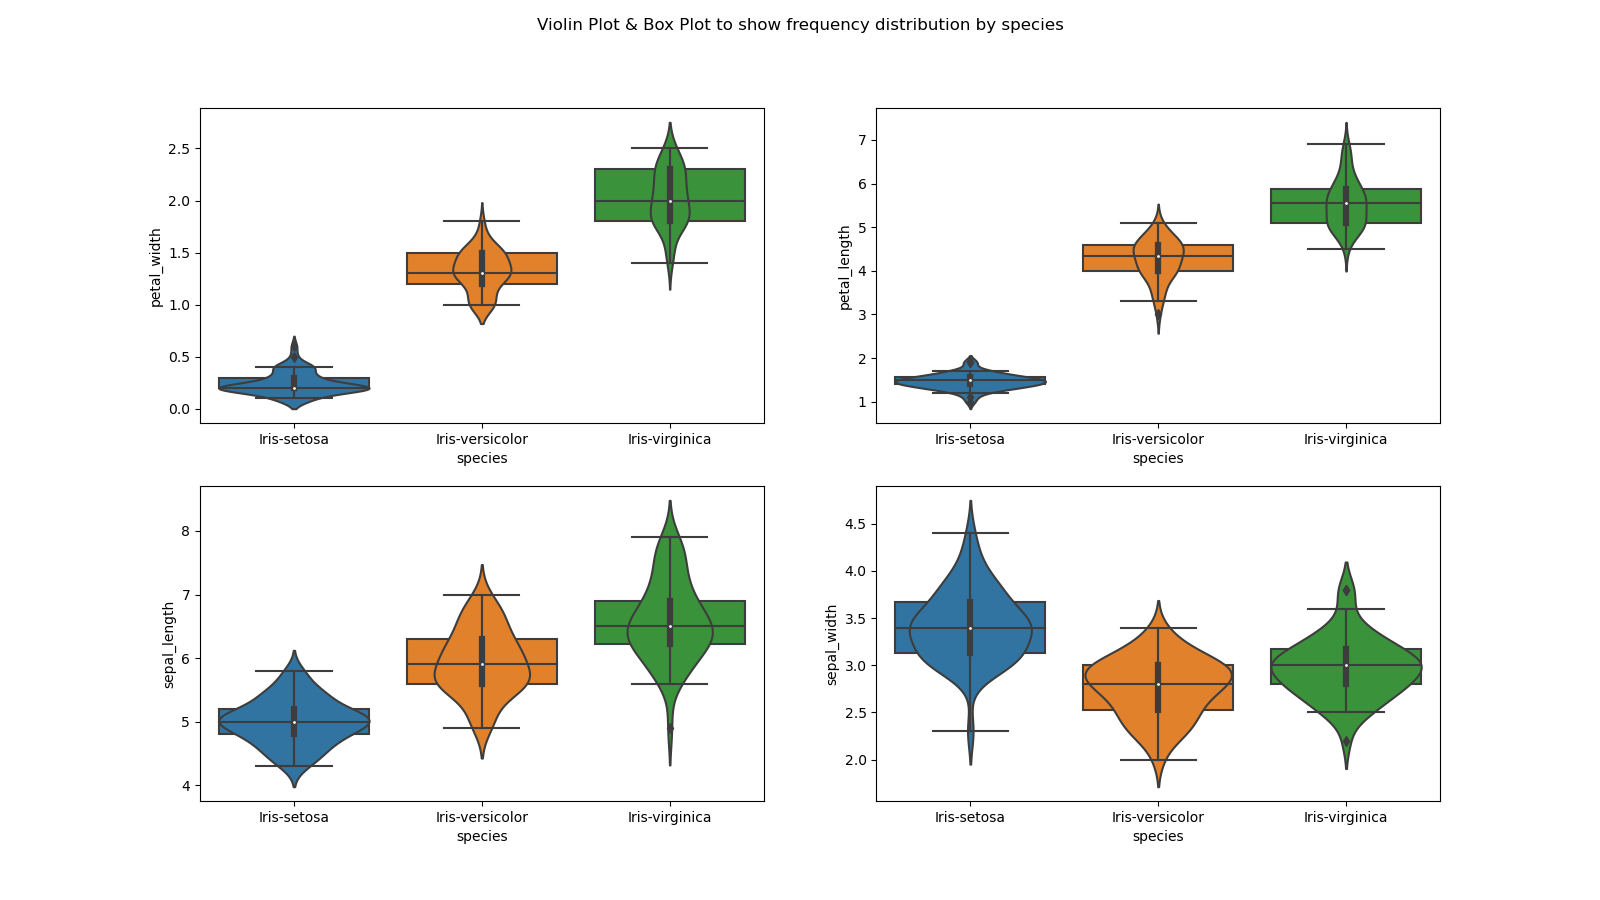
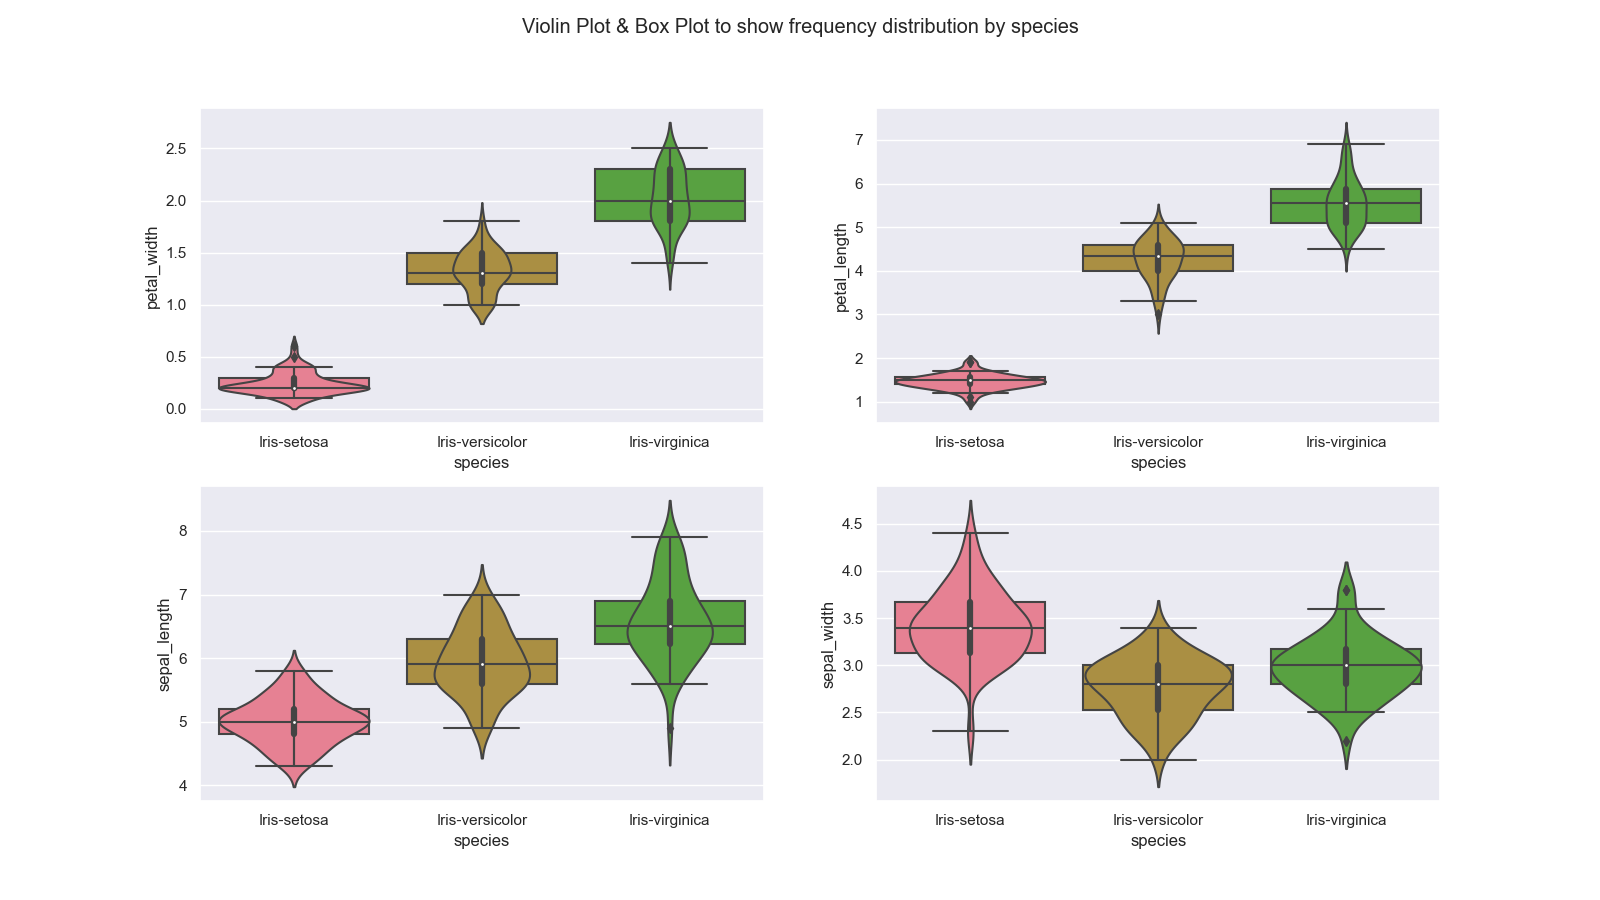
tested new color scheme for plots

diff --git a/dataVis.py b/dataVis.py
@@ -96,6 +96,8 @@ def pair_plots():
 
 # Box plots to show the median and the quartiles of each variable.
 def box_plots():
+    sns.set(style="darkgrid")
+    sns.set_palette("husl")
     fig, axes = plt.subplots(2, 2, figsize=(16,9))
     fig.suptitle("Box Plots to show the min, max, median and quartiles of each variable")
     sns.boxplot( y='petal_width', x= 'species', data=df, orient='v' , ax=axes[0, 0])
@@ -112,9 +114,11 @@ def box_plots():
 # and how that might affect the numbers that we see.
 
 def box_violin_plots():
+    sns.set(style="darkgrid")
     fig, axes = plt.subplots(2, 2, figsize=(16,9))
     fig.suptitle("Violin Plot & Box Plot to show frequency distribution by species")
     #plt.title("Violin Plot & Box Plot to show frequency distribution")
+    sns.set_palette("husl")
     sns.boxplot( y='petal_width', x= 'species', data=df, orient='v' , ax=axes[0, 0] )
     sns.violinplot( y='petal_width', x= 'species', data=df, orient='v' , ax=axes[0, 0] )
     sns.boxplot( y='petal_length', x= 'species', data=df, orient='v' , ax=axes[0, 1] )
@@ -158,4 +162,4 @@ def histo_plots():
 #pair_plots()
 #box_plots()
 #box_violin_plots()
-histo_plots()
+#histo_plots()

diff --git a/analysis.py b/analysis.py
@@ -32,6 +32,8 @@ box_plots()
 # ie are outliers affecting the data?
 box_violin_plots()
 
+# Now we're looking at histograms to get another view of the frequency distribution of the numbers
+histo_plots()
 # Examination of sepal length and width of the three species
 petal_relation() 
 sepal_relation()
